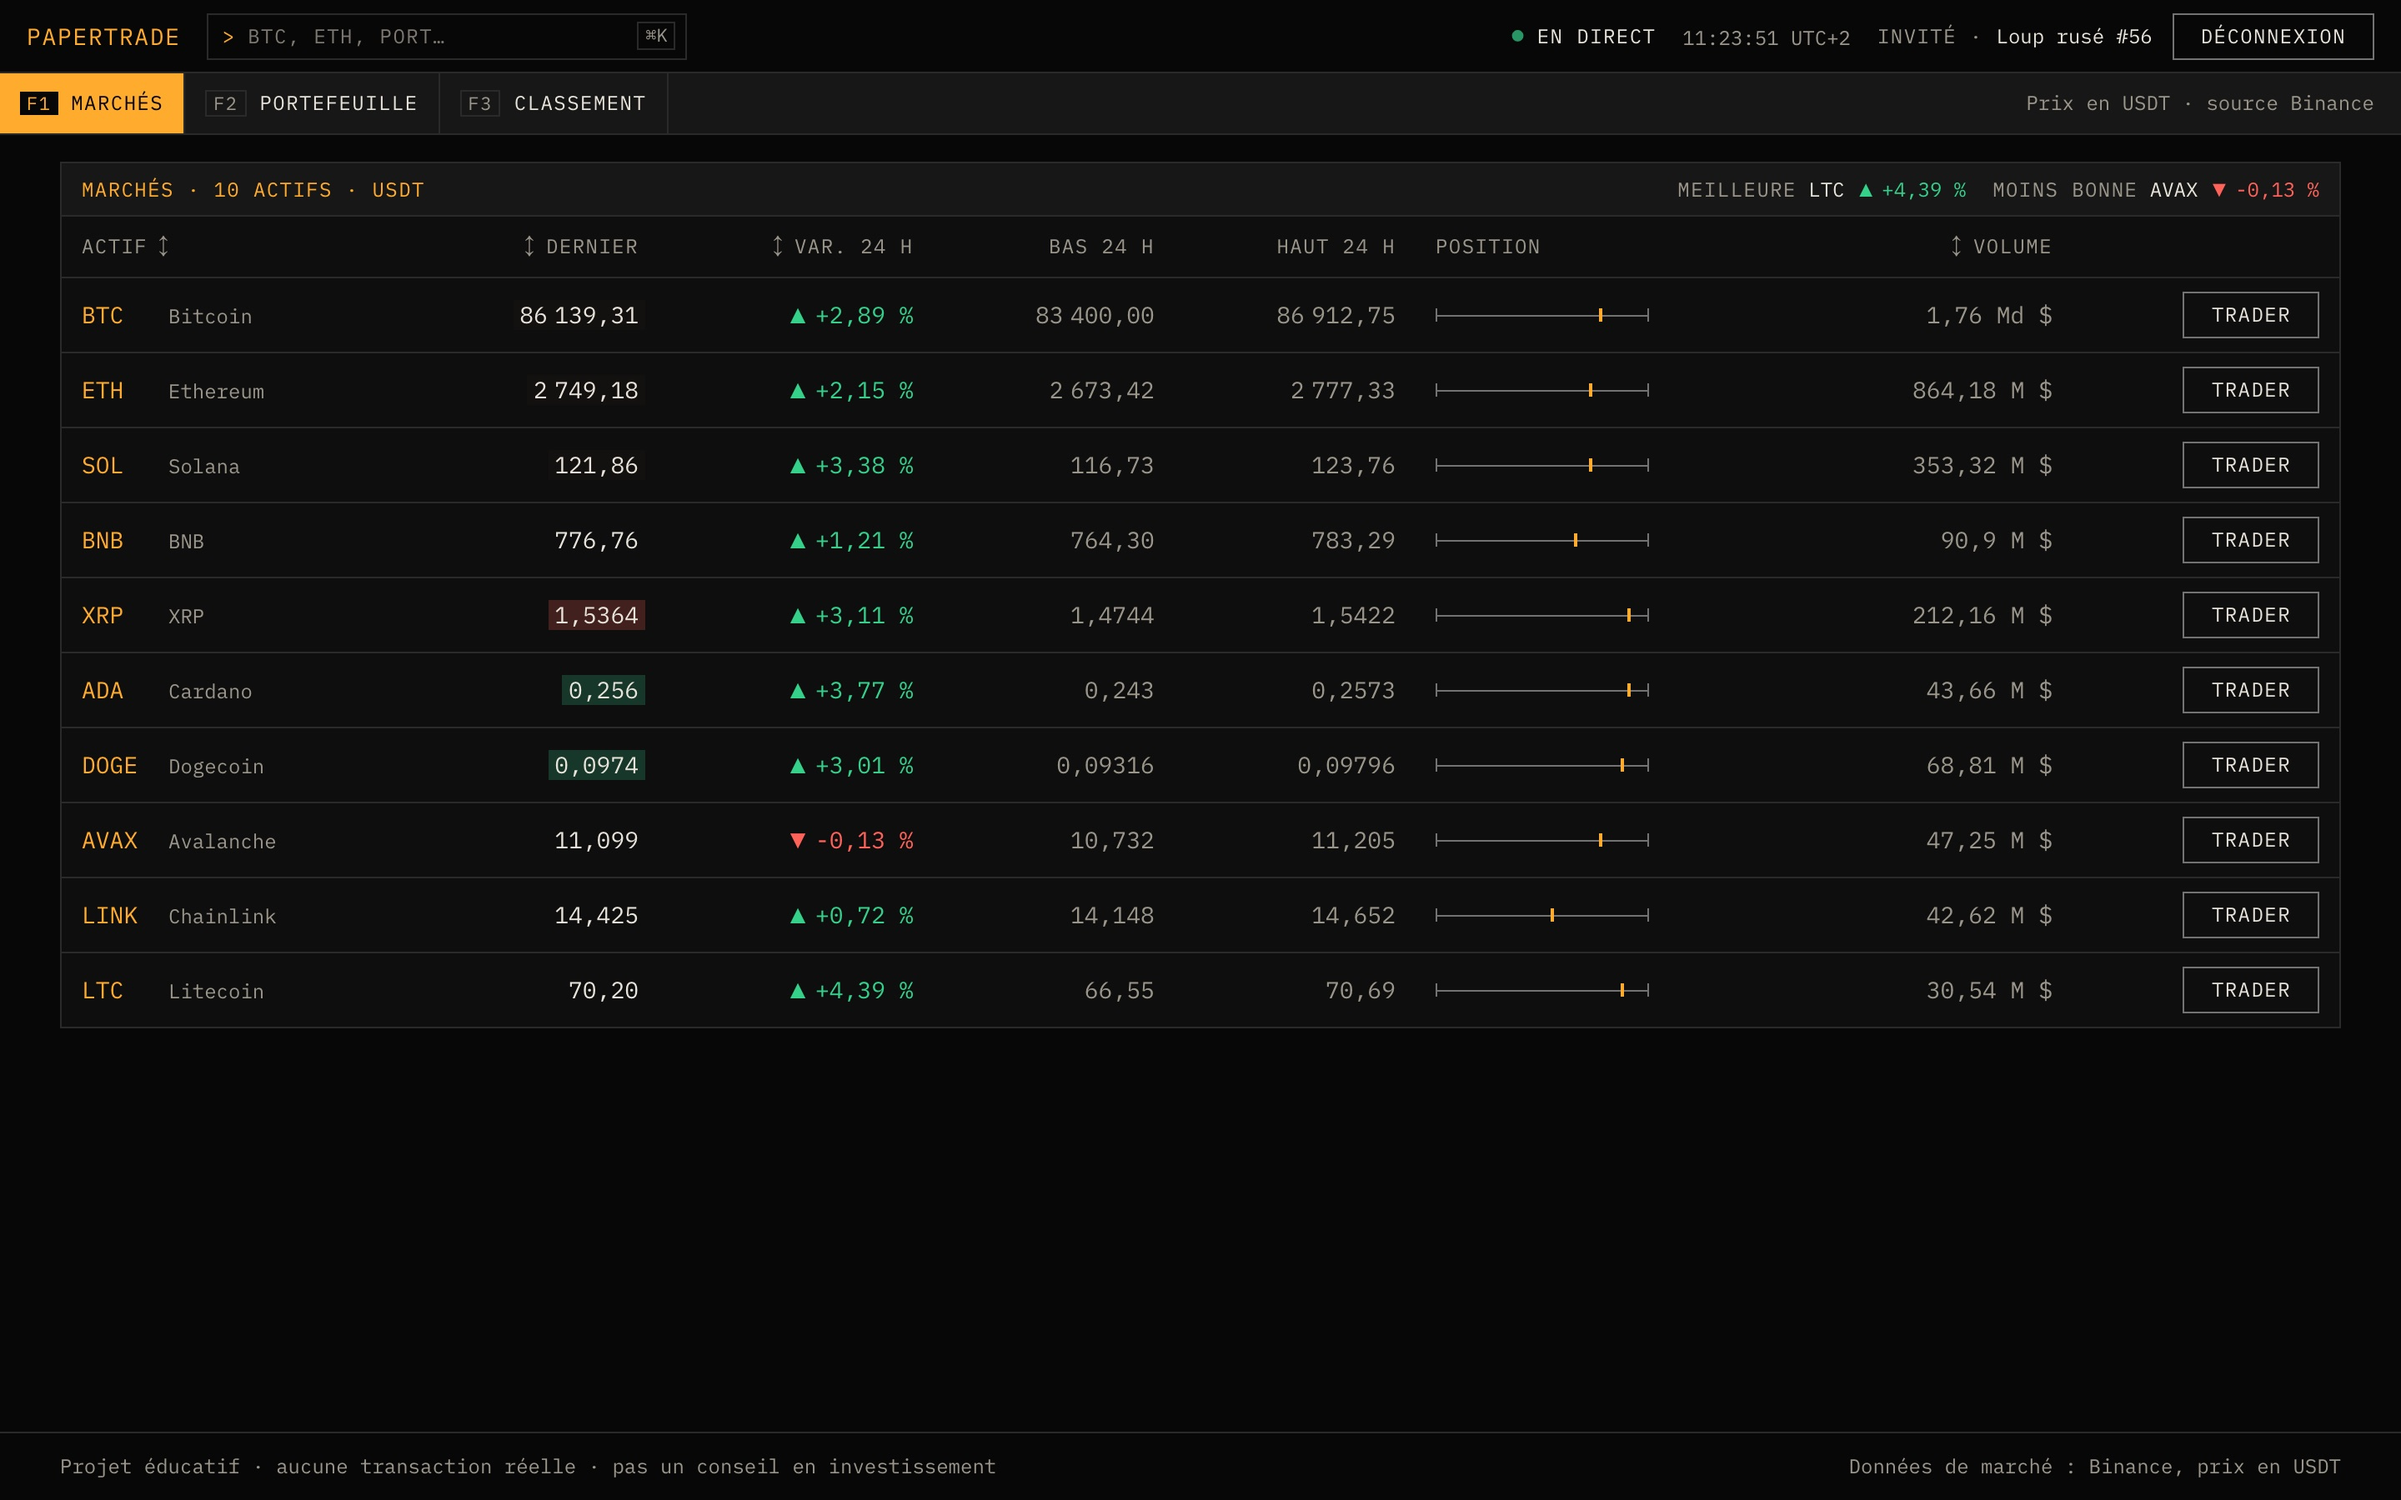
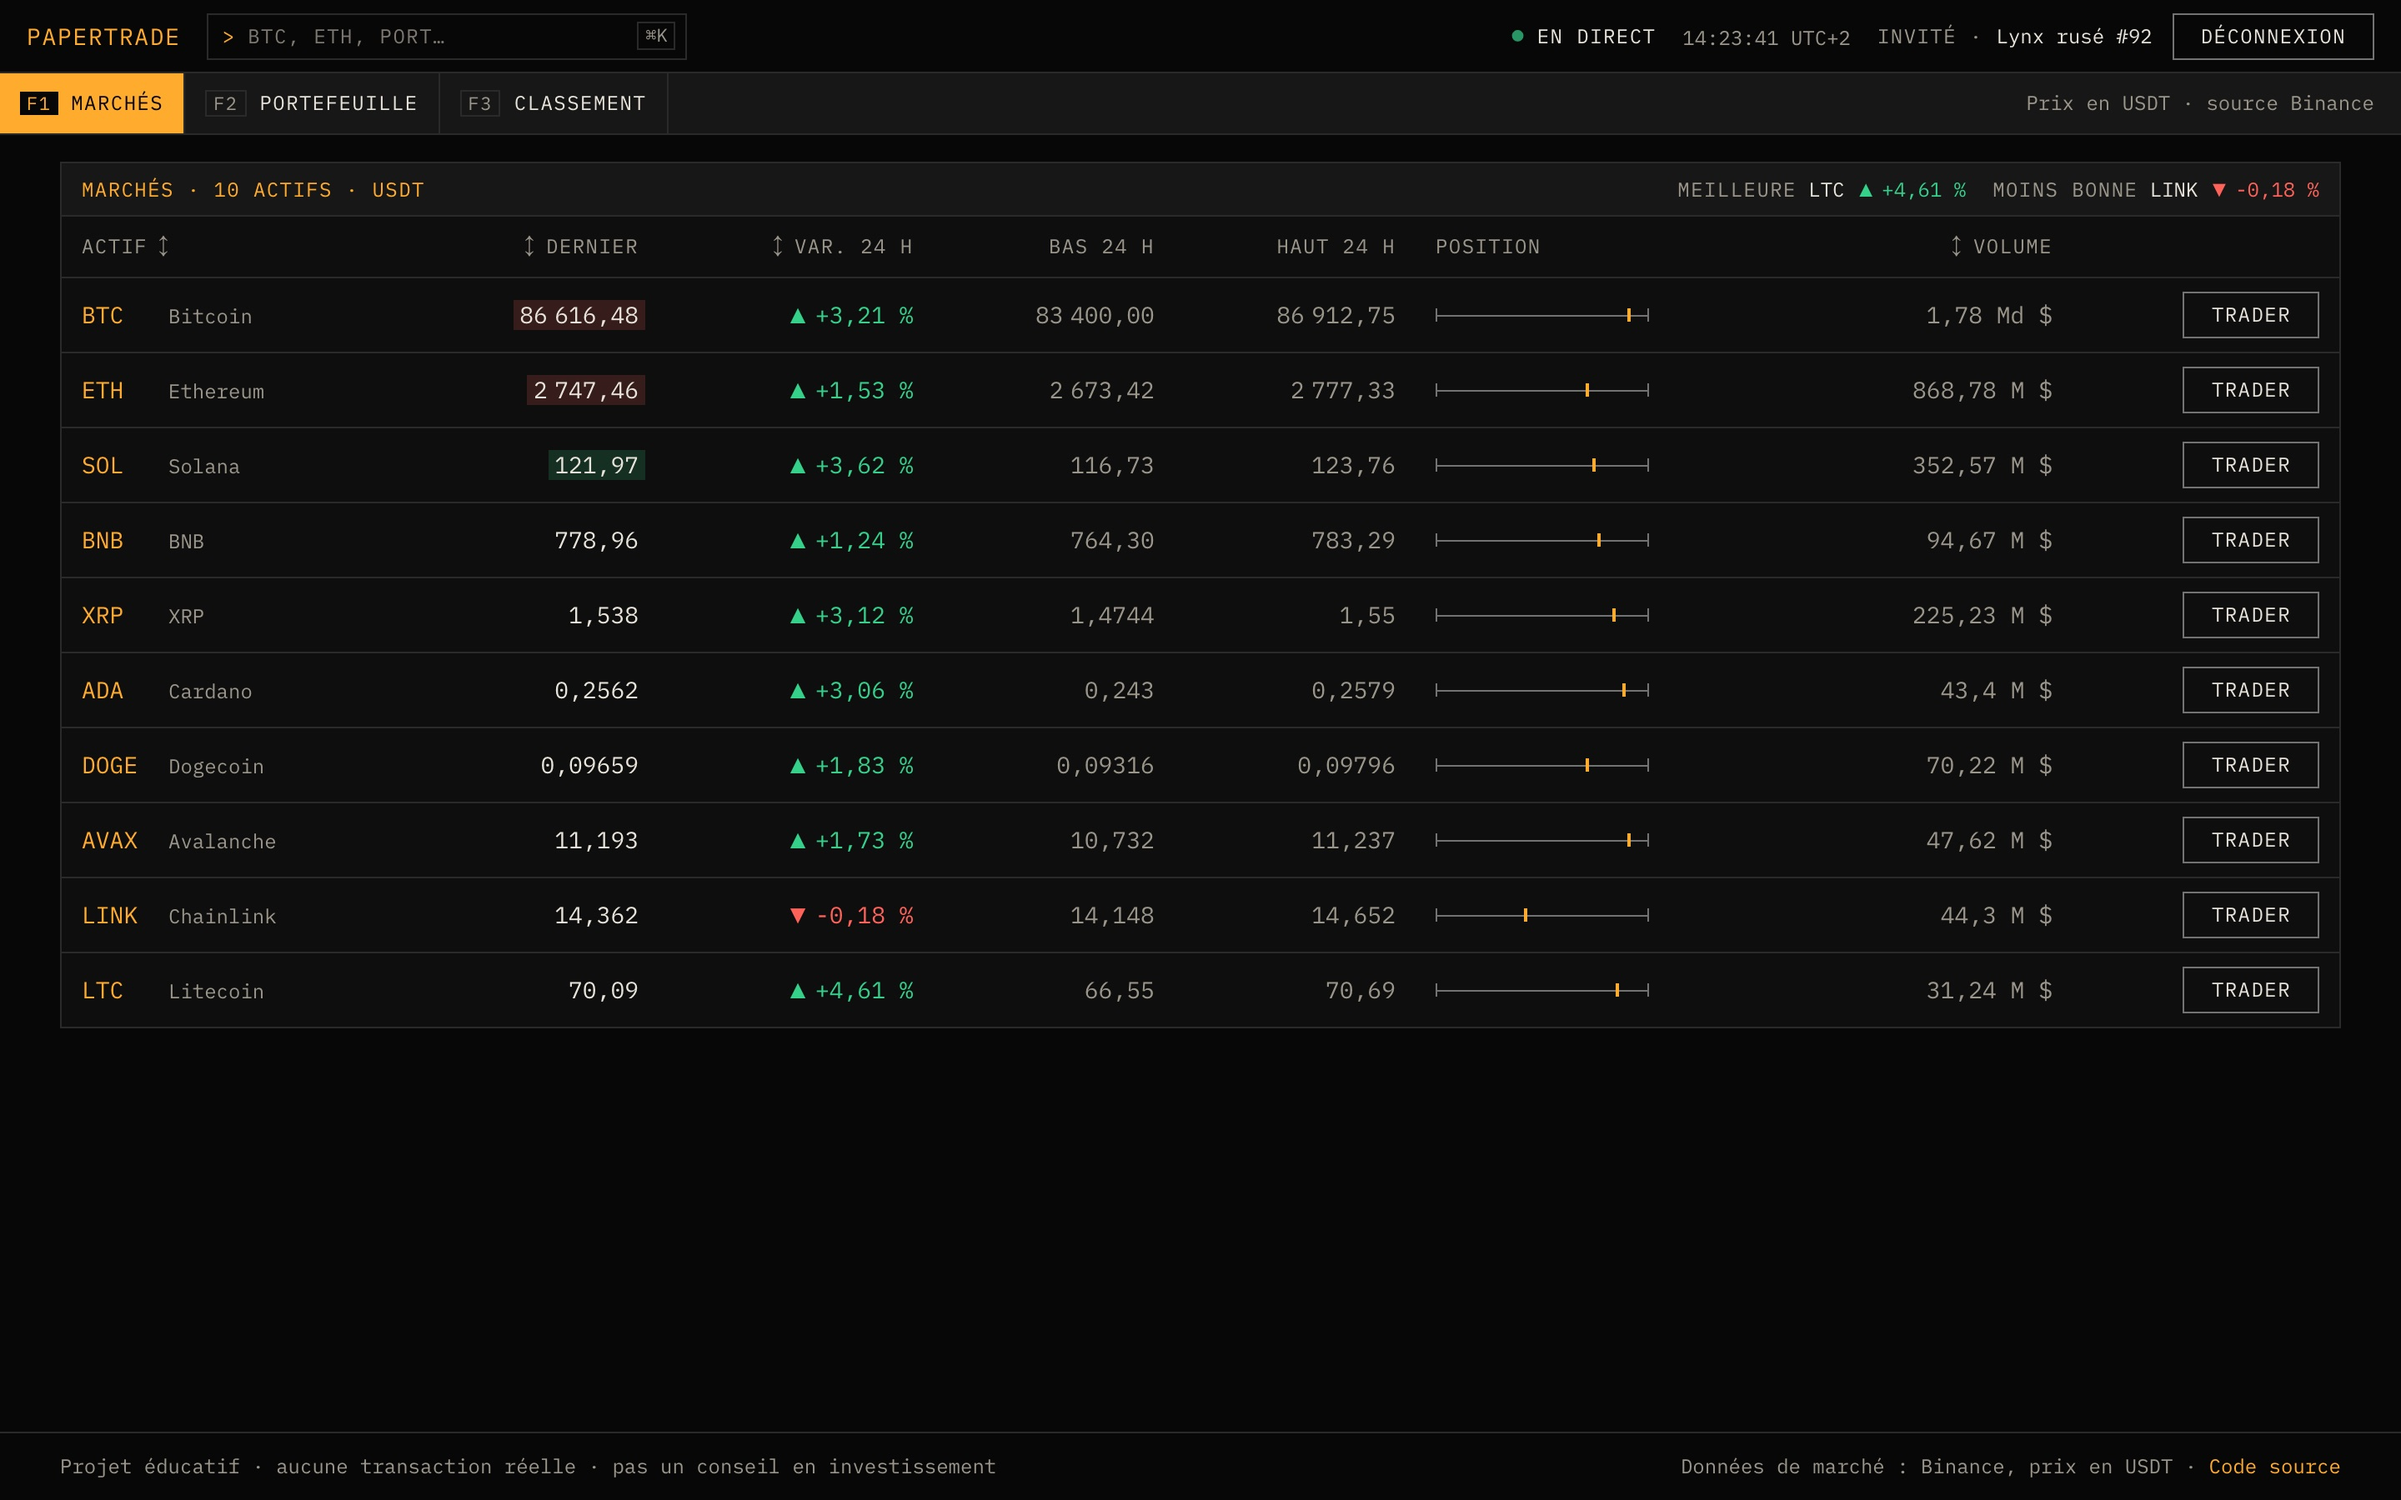
README : captures à jour, accueil en tête (#2)

diff --git a/README.md b/README.md
@@ -5,7 +5,7 @@ vos plus-values et comparez-vous aux autres joueurs. Aucun argent réel.
 
 **Démo :** https://papertrade-five-peach.vercel.app
 
-![Page de trading : graphique en direct, formulaire d'ordre et position](docs/trade.jpg)
+![Accueil : cotations en direct, mode d'emploi et présentation du projet](docs/home.jpg)
 
 ## Pourquoi ce projet
 
@@ -26,6 +26,8 @@ l'exactitude compte, même quand l'argent est fictif.
   GitHub conserve son portefeuille
 - **Pensé pour le clavier** : ligne de commande (tapez `BTC` puis Entrée, ⌘K pour y accéder) et
   touches de fonction F1 à F3 pour changer d'écran
+
+![Page de trading : graphique en direct, ticket d'ordre et position](docs/trade.jpg)
 
 ![Portefeuille : synthèse, répartition et positions](docs/portfolio.jpg)
 
